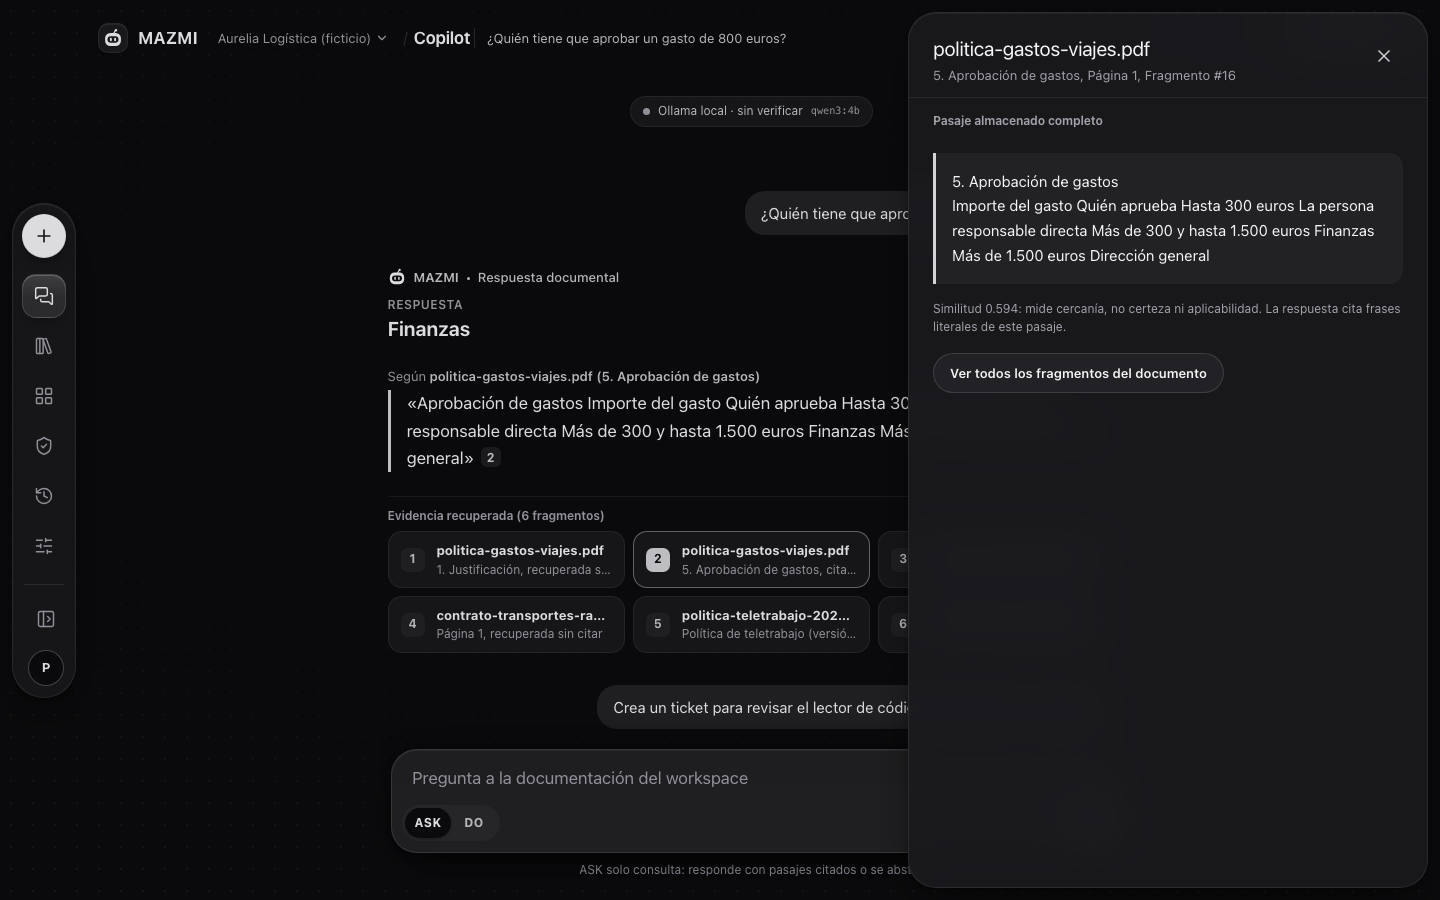
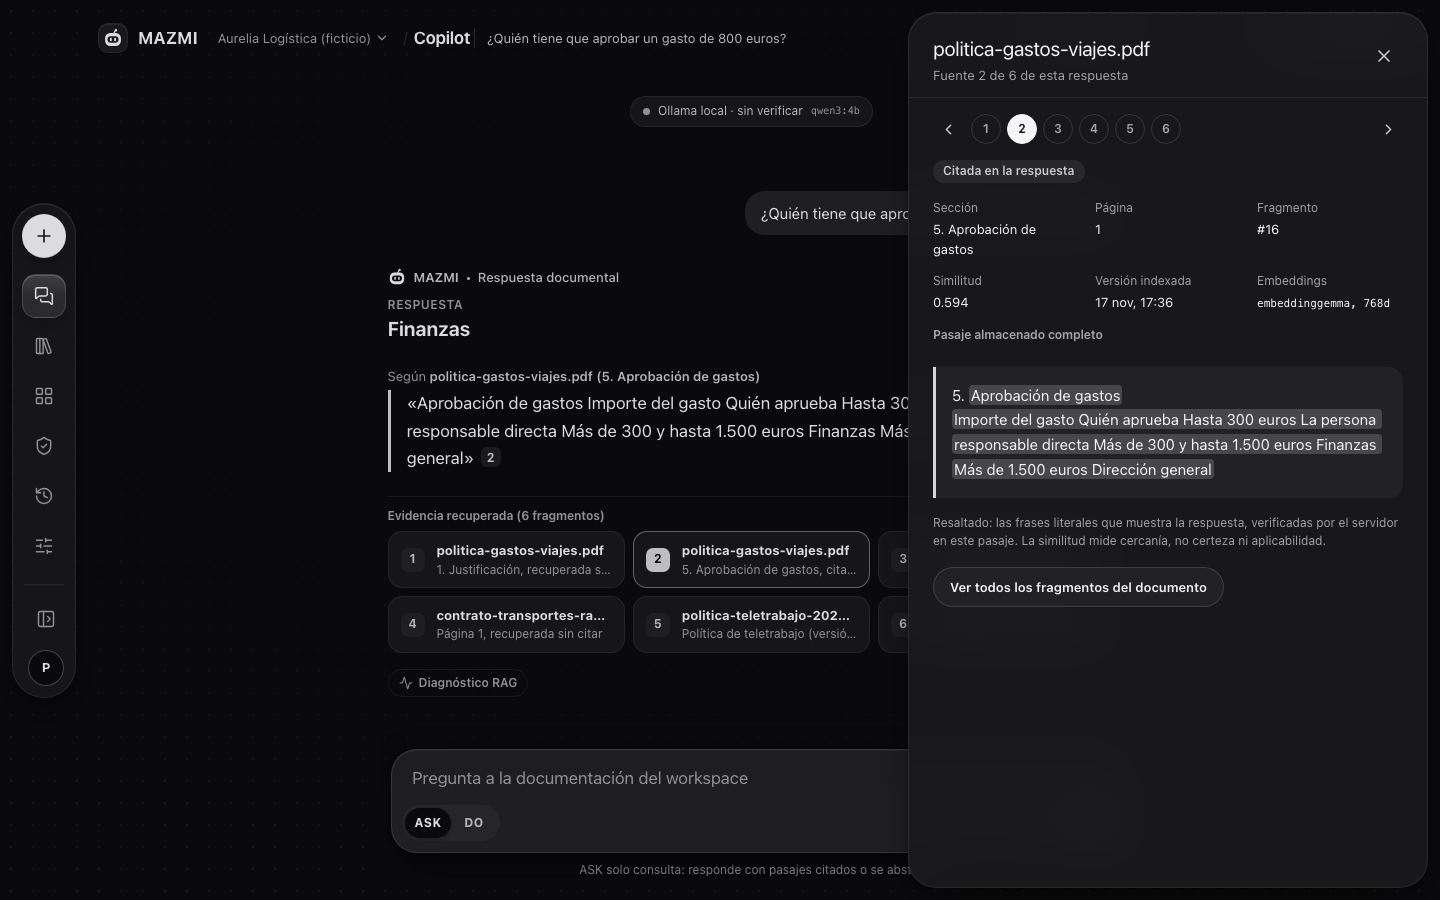
docs: Evidence Explorer, diagnóstico RAG y paleta en el README
Capturas reales con el modelo local: el explorador con la cita
resaltada, el diagnóstico con los valores medidos de esa respuesta y
la paleta ⌘K. El README explica qué muestra cada vista y el nuevo
endpoint de diagnóstico.

diff --git a/README.md b/README.md
@@ -16,9 +16,13 @@ Pila: Next.js 16 / React 19, FastAPI, PostgreSQL 17 con pgvector y Ollama (Qwen3
 |---|---|
 | ![Bienvenida con el robot de MAZMI y el compositor centrado](docs/screenshots/copilot-empty.png) | ![Panel abierto desde la barra lateral flotante](docs/screenshots/panel.png) |
 
-| Conocimiento | Inspector de evidencia |
+| Evidence Explorer | Diagnóstico RAG |
 |---|---|
-| ![Biblioteca de documentos](docs/screenshots/knowledge.png) | ![Pasaje almacenado tras una cita](docs/screenshots/source-inspector.png) |
+| ![Fuente citada con su frase literal resaltada y navegación entre fuentes](docs/screenshots/source-inspector.png) | ![Etapas del pipeline con métricas medidas por el servidor](docs/screenshots/rag-inspector.png) |
+
+| Conocimiento | Paleta de comandos (⌘K) |
+|---|---|
+| ![Biblioteca de documentos](docs/screenshots/knowledge.png) | ![Paleta para ir a secciones, acciones y conversaciones](docs/screenshots/command-palette.png) |
 
 | Aprobación humana | Configuración |
 |---|---|
@@ -33,6 +37,11 @@ Pila: Next.js 16 / React 19, FastAPI, PostgreSQL 17 con pgvector y Ollama (Qwen3
 3. **Evidencia verificada.** Guardas deterministas comprueban alcance, hechos pedidos, condiciones y contradicciones literales. Después, el modelo copia una cita literal por cada parte de la pregunta; **el servidor verifica que cada cita existe en el pasaje que nombra**, y una segunda llamada acotada confirma que esas citas contienen el dato pedido. Cualquier fallo es una abstención.
 4. **Respuesta.** El servidor muestra frases literales del pasaje almacenado, con documento, sección y un identificador de cita, precedidas de una línea breve con el dato cuando ese dato aparece tal cual en la cita. El texto que ve el usuario nunca lo escribe el modelo.
 5. **Versiones.** Un documento que declara estar sustituido o fuera de vigor no se usa para preguntas sobre la situación actual; sí para preguntas sobre esa versión, indicándolo.
+
+**Verificable desde la interfaz.**
+- **Evidence Explorer:** cada cita abre un panel con el pasaje almacenado completo, sus metadatos (sección, página, fragmento, similitud, versión indexada y modelo de embeddings) y, resaltadas, las frases literales que muestra la respuesta. Se puede navegar entre todas las fuentes de la respuesta con botones o con ← y →.
+- **Diagnóstico RAG:** con el modo diagnóstico activado en Configuración, cada respuesta documental muestra sus etapas (consulta, recuperación, fragmentos, contexto, LLM y respuesta) con los valores que el servidor ya registra: tiempos de embedding y SQL, candidatos vectoriales y léxicos, rangos RRF, llamadas, tokens y tiempos de Ollama, y el motivo de una abstención. Se lee con `GET /api/conversations/{id}/diagnostics`, limitado al workspace y con una lista blanca que nunca devuelve texto de preguntas, documentos ni respuestas.
+- **Paleta de comandos:** con ⌘K o Ctrl+K se va a secciones, acciones y conversaciones.
 
 Los documentos son datos no fiables: las llamadas documentales no reciben herramientas y las llamadas con herramientas no reciben documentos ni historial.
 

diff --git a/docs/screenshots/README.md b/docs/screenshots/README.md
@@ -10,4 +10,6 @@ Sin modo demo, sin claves y sin retoque ni composición: PNG escrito directament
 
 Diseño «Project Glass» en escala de grises: barra lateral flotante con indicador de cristal, robot de MAZMI y conversación como pantalla inicial. Las capturas se tomaron con `prefers-reduced-motion: reduce` para que ninguna transición quede a medias.
 
+`source-inspector.png`, `rag-inspector.png` y `command-palette.png` (17 de noviembre de 2026) muestran el Evidence Explorer, el diagnóstico RAG con los valores reales de esa respuesta y la paleta ⌘K.
+
 Son pasos sucesivos de un mismo recorrido: el ticket del muelle 3 se confirmó antes de las capturas, y la propuesta de `approvals.png` (carretilla del muelle 2) se rechazó justo después de capturarla para no dejar nada pendiente. `panel.png` muestra el panel abierto sobre la vista Workspace.
